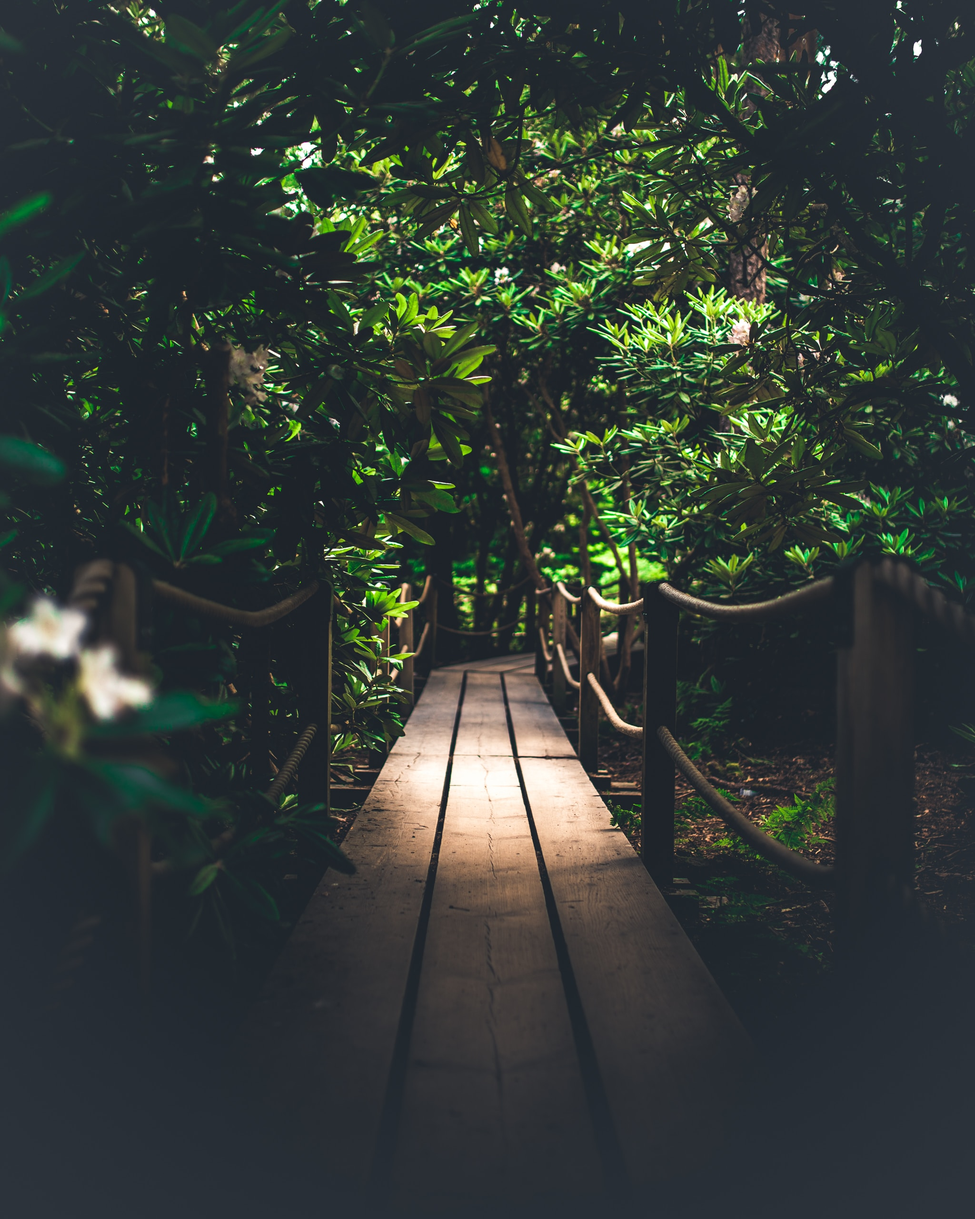
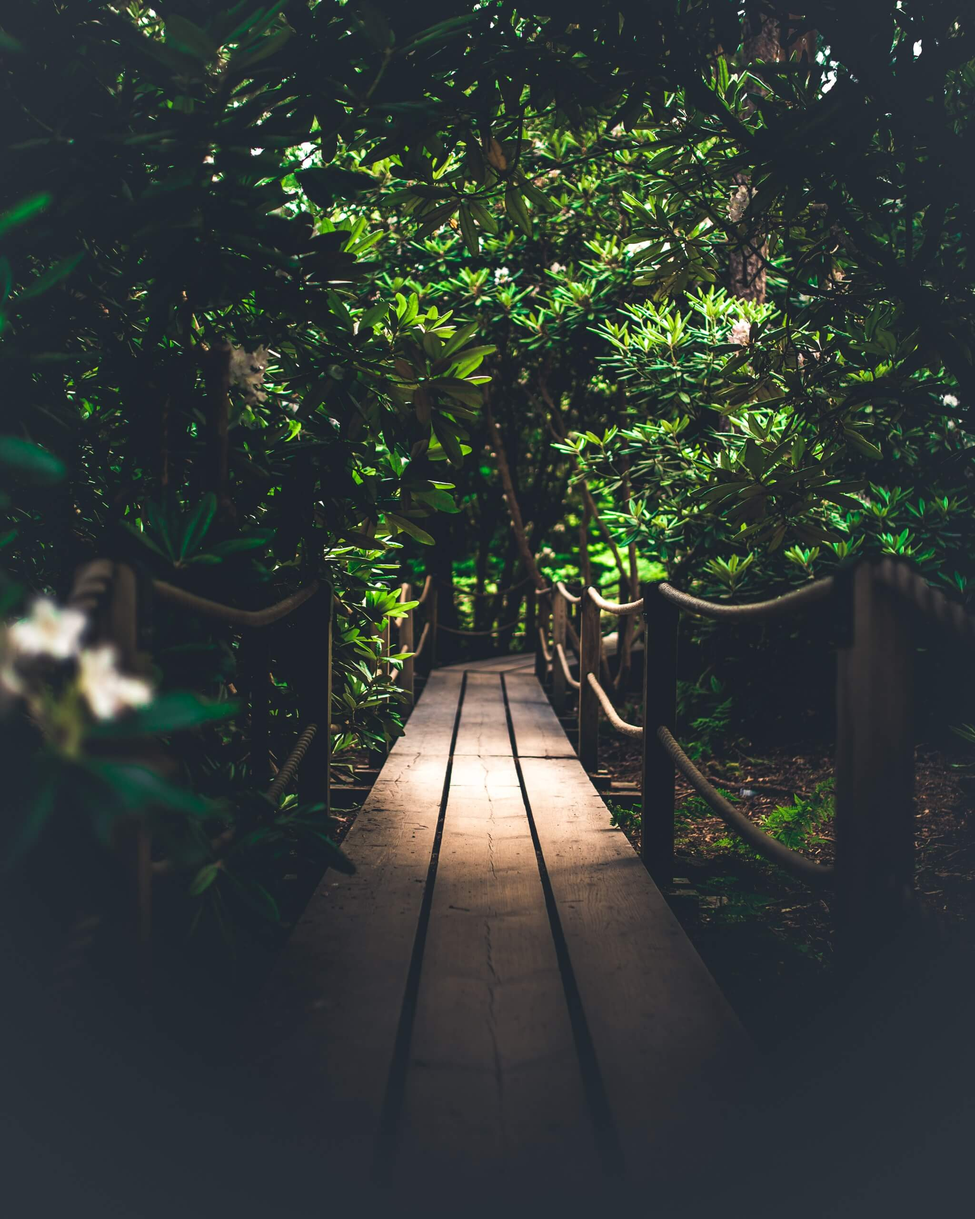
Compressed images

Changed region(s): [[0.625, 0.25, 0.7812, 0.3125]]

diff --git a/index.html b/index.html
@@ -4,6 +4,7 @@
     <meta charset="UTF-8" />
     <meta name="viewport" content="width=device-width, initial-scale=1.0" />
     <meta http-equiv="X-UA-Compatible" content="ie=edge" />
+    <link rel="icon" type="image/png" sizes="32x32" href="favicon_io/favicon-32x32.png" />
     <link
       href="https://fonts.googleapis.com/css?family=DM+Serif+Text:400,400i|Kaushan+Script&display=swap"
       rel="stylesheet"
